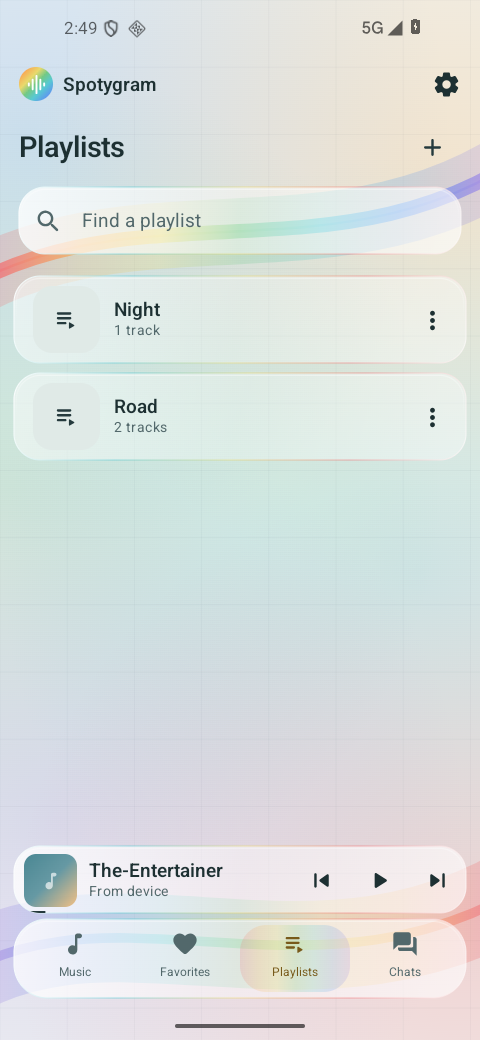
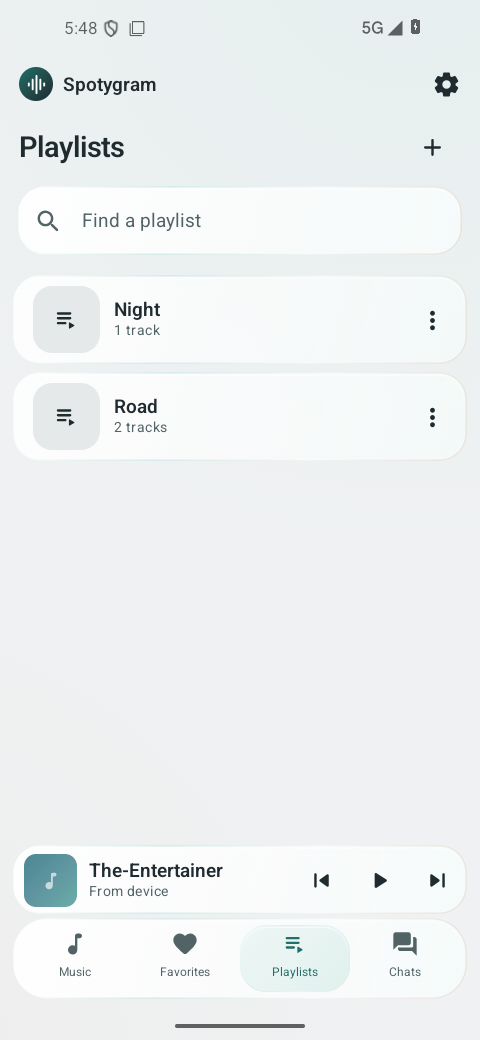
fix: keep Spotygram glass readable in both themes

diff --git a/app/src/main/java/app/spotygram/Design.kt b/app/src/main/java/app/spotygram/Design.kt
@@ -19,7 +19,6 @@ import androidx.compose.ui.geometry.CornerRadius
 import androidx.compose.ui.geometry.Offset
 import androidx.compose.ui.graphics.Brush
 import androidx.compose.ui.graphics.Color
-import androidx.compose.ui.graphics.Path
 import androidx.compose.ui.graphics.drawscope.Stroke
 import androidx.compose.ui.graphics.luminance
 import androidx.compose.ui.layout.ContentScale
@@ -35,23 +34,13 @@ import androidx.lifecycle.compose.collectAsStateWithLifecycle
 import coil3.compose.AsyncImage
 import java.io.File
 
-private val Red = Color(0xFFF07175)
-private val Amber = Color(0xFFF6AF58)
-private val Yellow = Color(0xFFE9D96C)
-private val Green = Color(0xFF72C987)
-private val Cyan = Color(0xFF58C9D2)
-private val Blue = Color(0xFF5E9DEB)
-private val Violet = Color(0xFFA08CE4)
-
-val Spectrum = listOf(Red, Amber, Yellow, Green, Cyan, Blue, Violet)
+private val Sea = Color(0xFF70CFC5)
+private val Warm = Color(0xFFD9B695)
 
 @Composable
-fun spectrumAccent(index: Int): Color {
+fun glassAccent(): Color {
     val dark = MaterialTheme.colorScheme.background.luminance() < 0.5f
-    return if (dark) listOf(Cyan, Red, Yellow, Green)[index]
-    else listOf(
-        Color(0xFF086D79), Color(0xFFAE4450), Color(0xFF785A1A), Color(0xFF277347),
-    )[index]
+    return if (dark) Color(0xFF91DED2) else Color(0xFF226E69)
 }
 
 /** A modal has its own window; changing the app theme must update that window too. */
@@ -71,128 +60,104 @@ fun MatchDialogSystemBars() {
 
 private val Dark =
     darkColorScheme(
-        primary = Color(0xFFF3F6F4),
-        onPrimary = Color(0xFF172A2C),
-        secondary = Color(0xFF8ADDE6),
-        tertiary = Color(0xFFFFA2A2),
-        background = Color(0xFF101B1D),
-        onBackground = Color(0xFFF1F6F3),
-        surface = Color(0xFF253437),
-        onSurface = Color(0xFFF1F6F3),
-        surfaceVariant = Color(0xFF35494C),
-        onSurfaceVariant = Color(0xFFC0CFCD),
-        secondaryContainer = Color(0xFF294C50),
-        onSecondaryContainer = Color(0xFFEAF7F2),
-        outline = Color(0xFF87A5A4),
+        primary = Color(0xFFF4F7F6),
+        onPrimary = Color(0xFF132024),
+        secondary = Color(0xFF91DED2),
+        tertiary = Color(0xFFF0B0A4),
+        background = Color(0xFF0B0D10),
+        onBackground = Color(0xFFF4F5F5),
+        surface = Color(0xFF20252A),
+        onSurface = Color(0xFFF4F5F5),
+        surfaceVariant = Color(0xFF353B40),
+        onSurfaceVariant = Color(0xFFB6C1C2),
+        secondaryContainer = Color(0xFF294A49),
+        onSecondaryContainer = Color(0xFFE5F8F3),
+        outline = Color(0xFF829396),
     )
 private val Light =
     lightColorScheme(
-        primary = Color(0xFF253A3D),
+        primary = Color(0xFF202B2F),
         onPrimary = Color.White,
-        secondary = Color(0xFF137B8A),
-        tertiary = Color(0xFFB84750),
-        background = Color(0xFFF0F3F1),
-        onBackground = Color(0xFF1D3032),
-        surface = Color(0xFFFAFCFA),
-        onSurface = Color(0xFF1D3032),
-        surfaceVariant = Color(0xFFE0EAE7),
-        onSurfaceVariant = Color(0xFF52686B),
-        secondaryContainer = Color(0xFFD7F0E9),
-        onSecondaryContainer = Color(0xFF193F42),
-        outline = Color(0xFF789394),
+        secondary = Color(0xFF226E69),
+        tertiary = Color(0xFFA44047),
+        background = Color(0xFFEFF1F2),
+        onBackground = Color(0xFF202B2F),
+        surface = Color(0xFFFFFFFF),
+        onSurface = Color(0xFF202B2F),
+        surfaceVariant = Color(0xFFE5E9E9),
+        onSurfaceVariant = Color(0xFF526366),
+        secondaryContainer = Color(0xFFDCEFEB),
+        onSecondaryContainer = Color(0xFF1C4948),
+        outline = Color(0xFF74888B),
     )
 
-/** One static color field sits behind the scrolling content and translucent controls. */
+/** Quiet tonal ground: artwork and controls supply the color, not the page wallpaper. */
 @Composable
 fun PrismBackdrop(modifier: Modifier = Modifier) {
     val dark = MaterialTheme.colorScheme.background.luminance() < 0.5f
     Canvas(modifier.background(MaterialTheme.colorScheme.background)) {
         val w = size.width
         val h = size.height
-        val glows = listOf(
-            Triple(Blue, Offset(w * 0.06f, h * 0.13f), w * 0.88f),
-            Triple(Amber, Offset(w * 0.91f, h * 0.18f), w * 0.84f),
-            Triple(Green, Offset(w * 0.02f, h * 0.47f), w * 0.90f),
-            Triple(Cyan, Offset(w * 0.87f, h * 0.55f), w * 0.87f),
-            Triple(Violet, Offset(w * 0.12f, h * 0.79f), w * 0.85f),
-            Triple(Red, Offset(w * 0.97f, h * 0.89f), w * 0.94f),
+        val top = Offset(w * 0.85f, -h * 0.05f)
+        val bottom = Offset(-w * 0.3f, h * 1.03f)
+        drawCircle(
+            Brush.radialGradient(
+                listOf(Sea.copy(alpha = if (dark) 0.12f else 0.075f), Color.Transparent),
+                center = top, radius = w * 1.25f,
+            ),
+            radius = w * 1.25f, center = top,
         )
-        glows.forEach { (color, center, radius) ->
-            drawCircle(
-                Brush.radialGradient(
-                    listOf(color.copy(alpha = if (dark) 0.30f else 0.24f), Color.Transparent),
-                    center = center,
-                    radius = radius,
-                ),
-                radius = radius,
-                center = center,
-            )
-        }
-        val grid = 56.dp.toPx()
-        val gridColor = if (dark) Color.White.copy(alpha = 0.035f)
-            else Color(0xFF223A40).copy(alpha = 0.055f)
-        for (x in 0..(w / grid).toInt())
-            drawLine(gridColor, Offset(x * grid, 0f), Offset(x * grid, h), 0.6.dp.toPx())
-        for (y in 0..(h / grid).toInt())
-            drawLine(gridColor, Offset(0f, y * grid), Offset(w, y * grid), 0.6.dp.toPx())
-
-        val rainbow = Brush.horizontalGradient(Spectrum)
-        val ribbon = Path().apply {
-            moveTo(-w * 0.15f, h * 0.30f)
-            cubicTo(w * 0.26f, h * 0.16f, w * 0.72f, h * 0.29f, w * 1.15f, h * 0.13f)
-        }
-        drawPath(ribbon, Brush.horizontalGradient(Spectrum.map {
-            it.copy(alpha = if (dark) 0.19f else 0.24f)
-        }), style = Stroke(width = 55.dp.toPx()))
-        drawPath(ribbon, rainbow, alpha = if (dark) 0.80f else 0.75f,
-            style = Stroke(width = 12.dp.toPx()))
-        drawPath(ribbon, Brush.horizontalGradient(Spectrum.map {
-            it.copy(alpha = if (dark) 0.30f else 0.48f)
-        }), style = Stroke(width = 2.dp.toPx()))
-
-        val lowerRibbon = Path().apply {
-            moveTo(-w * 0.16f, h * 0.96f)
-            cubicTo(w * 0.22f, h * 0.82f, w * 0.66f, h * 1.00f, w * 1.17f, h * 0.83f)
-        }
-        drawPath(lowerRibbon, Brush.horizontalGradient(Spectrum.reversed().map {
-            it.copy(alpha = if (dark) 0.22f else 0.27f)
-        }), style = Stroke(width = 74.dp.toPx()))
-        drawPath(lowerRibbon, Brush.horizontalGradient(Spectrum.reversed()),
-            alpha = if (dark) 0.55f else 0.53f, style = Stroke(width = 8.dp.toPx()))
+        drawCircle(
+            Brush.radialGradient(
+                listOf(Warm.copy(alpha = if (dark) 0.075f else 0.06f), Color.Transparent),
+                center = bottom, radius = w * 1.1f,
+            ),
+            radius = w * 1.1f, center = bottom,
+        )
     }
 }
 
-/** A tinted optical rim and soft inner reflection; drawn once per surface, without per-row blur. */
+/** Layered optical surface with a light-catching rim and a denser core for readable content. */
 @Composable
-fun Modifier.liquidGlass(radius: Dp = 24.dp, strong: Boolean = false): Modifier {
+fun Modifier.liquidGlass(radius: Dp = 24.dp, strong: Boolean = false, selected: Boolean = false): Modifier {
     val dark = MaterialTheme.colorScheme.background.luminance() < 0.5f
-    val base = if (dark) Color(0xFF829DA0) else Color.White
-    val opacity = if (strong) if (dark) 0.29f else 0.80f else if (dark) 0.18f else 0.53f
-    val rim = if (dark) Color.White.copy(alpha = 0.58f) else Color.White.copy(alpha = 0.96f)
+    val base = if (selected) {
+        if (dark) Color(0xFF31504D) else Color(0xFFDCEFEB)
+    } else if (dark) Color(0xFF262D32) else Color.White
+    val opacity = if (strong) if (dark) 0.90f else 0.93f else if (dark) 0.76f else 0.80f
     return this.drawWithCache {
         val r = radius.toPx()
         val corner = CornerRadius(r, r)
         val fill = Brush.linearGradient(
             listOf(base.copy(alpha = opacity),
-                base.copy(alpha = opacity * 0.52f),
-                base.copy(alpha = opacity * 0.80f)),
+                base.copy(alpha = opacity * 0.80f),
+                base.copy(alpha = opacity * 0.94f)),
             start = Offset.Zero, end = Offset(size.width, size.height),
         )
         val edge = Brush.linearGradient(
-            listOf(rim, Cyan.copy(alpha = 0.55f), Yellow.copy(alpha = 0.50f),
-                Red.copy(alpha = 0.50f), rim.copy(alpha = if (dark) 0.32f else 0.7f)),
+            listOf(Color.White.copy(alpha = if (dark) 0.52f else 0.98f),
+                Sea.copy(alpha = if (dark) 0.30f else 0.28f),
+                Color.White.copy(alpha = if (dark) 0.10f else 0.35f),
+                Warm.copy(alpha = if (dark) 0.24f else 0.32f)),
             start = Offset.Zero, end = Offset(size.width, size.height),
         )
         onDrawBehind {
             drawRoundRect(fill, cornerRadius = corner)
-            drawRoundRect(edge, cornerRadius = corner, style = Stroke(0.9.dp.toPx()))
             drawRoundRect(
-                Brush.verticalGradient(listOf(Color.White.copy(alpha = if (dark) 0.15f else 0.38f), Color.Transparent),
+                Brush.linearGradient(
+                    listOf(Color.White.copy(alpha = if (dark) 0.12f else 0.38f),
+                        Color.Transparent, Sea.copy(alpha = if (dark) 0.045f else 0.055f)),
+                    start = Offset.Zero, end = Offset(size.width, size.height * 1.6f),
+                ), cornerRadius = corner,
+            )
+            drawRoundRect(edge, cornerRadius = corner, style = Stroke(1.dp.toPx()))
+            drawRoundRect(
+                Brush.verticalGradient(listOf(Color.White.copy(alpha = if (dark) 0.16f else 0.55f), Color.Transparent),
                     startY = 0f, endY = size.height * 0.52f),
                 topLeft = Offset(2.dp.toPx(), 2.dp.toPx()),
                 size = androidx.compose.ui.geometry.Size(size.width - 4.dp.toPx(), size.height - 4.dp.toPx()),
                 cornerRadius = CornerRadius((r - 2.dp.toPx()).coerceAtLeast(0f)),
-                style = Stroke(1.dp.toPx()),
+                style = Stroke(1.2.dp.toPx()),
             )
         }
     }
@@ -279,8 +244,8 @@ fun Artwork(track: Track?, size: Dp, modifier: Modifier = Modifier) {
                 .toInt()]
     Box(
         modifier.size(size).clip(RoundedCornerShape((size * 0.23f).coerceAtMost(24.dp)))
-            .background(Brush.linearGradient(listOf(tint, tint.copy(alpha = 0.84f),
-                Spectrum[(palettes.indexOf(tint) + 3) % Spectrum.size].copy(alpha = 0.72f)))),
+            .background(Brush.linearGradient(listOf(tint, tint.copy(alpha = 0.88f),
+                Color(0xFF6AAEA8)))),
         contentAlignment = Alignment.Center,
     ) {
         Icon(

diff --git a/app/src/main/java/app/spotygram/SpotygramUI.kt b/app/src/main/java/app/spotygram/SpotygramUI.kt
@@ -264,14 +264,12 @@ fun SpotygramUI(
                                     destinations.forEach { (index, destination) ->
                                         val (label, icon) = destination
                                         val selected = tab == index
-                                        val accent = spectrumAccent(index)
+                                        val accent = glassAccent()
                                         Column(
                                             Modifier.weight(1f).height(56.dp)
                                                 .clip(RoundedCornerShape(22.dp))
-                                                .then(if (selected) Modifier.background(
-                                                    Brush.horizontalGradient(Spectrum.map {
-                                                        it.copy(alpha = 0.20f)
-                                                    })) else Modifier)
+                                                 .then(if (selected) Modifier.liquidGlass(22.dp, selected = true)
+                                                     else Modifier)
                                                 .clickable { navigate(index) },
                                             horizontalAlignment = Alignment.CenterHorizontally,
                                             verticalArrangement = Arrangement.Center,
@@ -309,7 +307,9 @@ fun SpotygramUI(
                                 Box(
                                     Modifier.size(28.dp)
                                         .clip(CircleShape)
-                                        .background(Brush.linearGradient(Spectrum)),
+                                         .background(Brush.linearGradient(
+                                             listOf(MaterialTheme.colorScheme.secondary,
+                                                 MaterialTheme.colorScheme.primary))),
                                     contentAlignment = Alignment.Center,
                                 ) {
                                     Icon(

diff --git a/app/src/main/java/app/spotygram/PlayerScreen.kt b/app/src/main/java/app/spotygram/PlayerScreen.kt
@@ -235,10 +235,9 @@ fun PlayerScreen(
                 horizontalArrangement = Arrangement.SpaceBetween,
                 verticalAlignment = Alignment.CenterVertically,
             ) {
-                TextButton(onClick = onDownload, enabled = !track.local || track.temporary) {
+                if (!track.local || track.temporary) TextButton(onClick = onDownload) {
                     Icon(
-                        if (track.local && !track.temporary) Icons.Rounded.DownloadForOffline
-                        else Icons.Rounded.Download,
+                        Icons.Rounded.Download,
                         null,
                         Modifier.size(20.dp),
                     )
@@ -246,11 +245,11 @@ fun PlayerScreen(
                     Text(
                         when {
                             track.temporary -> tr(R.string.keep_on_device)
-                            track.local -> tr(R.string.on_device)
                             else -> tr(R.string.download)
                         }
                     )
                 }
+                Spacer(Modifier.weight(1f))
                 TextButton(onClick = onQueue) {
                     Icon(Icons.Rounded.QueueMusic, null, Modifier.size(20.dp))
                     Spacer(Modifier.width(8.dp))

diff --git a/docs/verification.md b/docs/verification.md
@@ -1,5 +1,43 @@
 # Verification record
 
+## 0.10.2 — quiet background and readable glass
+
+Debug and minified release assemblies, debug/release Lint and release lintVital
+passed. The ARM64 and x86-64 APKs passed `apksigner verify` with the existing
[1 lines of base64/hex data omitted]
+and 16 KB ZIP alignment. Both report `app.spotygram`, versionCode 18 /
+versionName 0.10.2. SHA-256: ARM64
[2 lines of base64/hex data omitted]
+
+Manual Android 16 x86-64 checks used the existing local recordings and playlists:
+
+- The signed APK installed over 0.10.1 without clearing data. The installed
+  `base.apk` SHA-256 matched the final x86-64 asset; three local songs and the
+  Night/Road playlists remained. Local playback reached MediaSession `PLAYING`
+  with advancing position, then `PAUSED` from the full player.
+- Light library, player and playlists; dark library, player, favorites, selection
+  and settings were inspected at 480×1040/192 dpi, including the Russian dark
+  player. The rainbow bands no longer cross headings, tracks or controls.
+  Reflective glass edges and selected tabs
+  remain distinct over both neutral grounds. Changing appearance in the open
+  settings sheet kept text readable.
+- At 480×1040/240 dpi (320 dp) and font scale 1.3, the mini-player title wrapped
+  within its panel, transport controls stayed separate, and the full player
+  scrolled to its lower action. The inactive local-download control was removed;
+  **Queue** stayed on one line at the right and opened its sheet.
+- The SVG banner was rendered in Chromium and visually inspected. The README
+  screenshots were refreshed from the installed release with local recordings.
+
+The emulator repeatedly showed cold-boot System UI/Pixel Launcher ANRs. In one
+run its system process restarted after a BluetoothManagerService exception;
+other emulator processes exited with a QEMU segmentation fault after boot or
+longer use. The final app screens above were responsive after dismissing the
+system dialogs. No `app.spotygram` AndroidRuntime crash was found in inspected
+logs. These checks do not establish physical ARM64 behavior, authenticated
+Telegram playback, large-catalog performance or device power use. No test files
+or fixtures were added.
+
 ## 0.10.1 — balanced RGB palette
 
 Debug and minified release assemblies, full debug/release Lint and release

diff --git a/docs/architecture.ru.md b/docs/architecture.ru.md
@@ -221,12 +221,13 @@ Compose отображает четыре раздела и запоминает
 используют транзакции. Списки ленивые; обложки запрашиваются максимум
 двумя параллельными задачами с низким приоритетом TDLib.
 
-Светлое и тёмное оформление используют нейтральную основу, распределённые
-цветовые области, тонкую сетку и две полосы полного спектра. Полупрозрачные
-поверхности используются в поиске, выборе источника, навигации, миниплеере,
-плеере и строках подборок. Их нейтральная заливка и световые края рисуются
-поверх фона; каждая строка списка песен не запускает blur или shader. Пока
-пользователь не сделал выбор, оформление следует настройке Android.
+Светлая тема использует светлую нейтральную основу, тёмная — почти чёрную.
+Два слабых статичных цветовых пятна придают стеклу глубину, не пересекают
+текст ярким рисунком. Поиск, выбор источника, навигация, миниплеер, обложка,
+управление плеером и подборки используют многослойную полупрозрачную заливку
+и световые края. Под текстом заливка плотнее; цвет сосредоточен в обложках
+и выбранных элементах. Строки списка песен не запускают blur или shader.
+Пока пользователь не сделал выбор, оформление следует настройке Android.
 Окно настроек плотнее, чтобы текст под ним не мешал чтению. На широком экране
 колонка библиотеки и нижние элементы ограничены 720 dp.
 

diff --git a/docs/architecture.md b/docs/architecture.md
@@ -211,11 +211,13 @@ Russian use Android resources; Android 13+ supports per-app language selection.
 Playlist edits and batch operations use transactions. Track lists are lazy,
 and artwork requests have two concurrent slots with low TDLib priority.
 
-The light and dark appearances share a neutral base with distributed color
-fields, a restrained grid and two full-spectrum light bands. Search, source
-controls, navigation, mini-player, player cover/transport and collection rows
-use translucent surfaces. Their neutral fills and reflective edges draw behind
-content; individual music rows do not run a blur or shader.
+The light appearance uses a pale neutral ground; the dark appearance uses a
+near-black one. Two faint static tonal washes give the glass some depth without
+passing a graphic through text. Search, source controls, navigation, mini-player,
+player cover/transport and collection rows use translucent layered fills,
+reflective edges and a stronger core where text needs contrast. Color lives
+mainly in artwork and selected controls; individual music rows do not run a
+blur or shader.
 The default appearance follows Android until the user chooses light or dark.
 Settings sheets use a denser surface so text beneath them cannot bleed through.
 Wide layouts keep the music column and bottom controls within 720 dp.

diff --git a/docs/releases/0.10.2.md b/docs/releases/0.10.2.md
@@ -1,0 +1,11 @@
+# 0.10.2 — clearer light and dark glass
+
+The full-screen spectrum and grid no longer run behind track names, playlists,
+or controls. Light mode has a pale neutral ground; dark mode has a near-black
+one. Glass surfaces use layered translucent fills, reflected edges and a denser
+core for readable text. Album art and selected controls carry the color.
+
+The four destinations, playback controls, library and settings work as before.
+The full player hides the inactive download action for a track already saved
+on the device, leaving the queue control readable on narrow screens.
+No music, playlist or Telegram data migration is needed.
